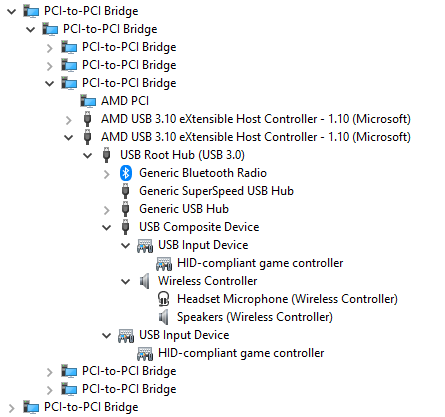
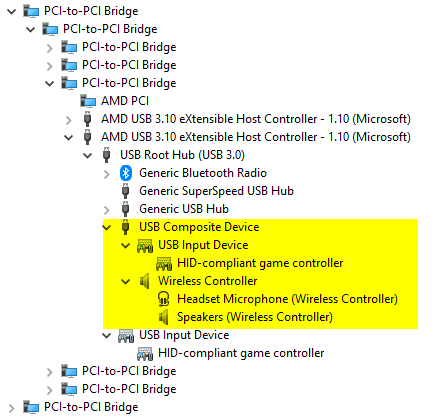
Updated example

Changed region(s): [[0.2337, 0.4988, 0.964, 0.8106]]

diff --git a/docs/projects/Identinator/index.md b/docs/projects/Identinator/index.md
@@ -4,20 +4,27 @@
 
 TBD
 
-## Examples
+## Usage Example
 
-### Before
+Let's take the **Sony DualShock 4 Rev2** for example; by default it is represented by a composite device. This branches off into two child devices: the "USB Input Device" which represents the HID interface which in turn gets presented as "HID-compliant game controller" and a multimedia device (named "Wireless Controller") which in turn exposes a microphone and speaker device:
 
 ![Before](images/mmc_ME74WR3tG2.png){: .glightbox }
+
+Examining the "USB Input Device" we can look at the default Hardware and Compatible IDs which get built by the Windows driver stack based on information extracted from the USB Device Descriptor:
 
 ![Hardware IDs](images/mmc_hzP9mpgCmB.png){: .glightbox }
 
 ![Compatible IDs](images/mmc_VaF4BO0OnD.png){: .glightbox }
 
-### After
+After applying rewrite settings, the changes can be observed:
 
 ![Before](images/mmc_lb8TghMekj.png){: .glightbox }
+
+!!! note "The second Wireless Controller shown..."
+    ...is a Sony DualShock 4 **Rev1** that was also connected and rewritten, it is completely independent from the Rev2.
 
 ![Hardware IDs](images/mmc_JIqFmaIMoB.png){: .glightbox }
 
 ![Compatible IDs](images/mmc_9AOKamFJ91.png){: .glightbox }
+
+Due to the compatible IDs the stock WinUSB drivers got loaded, so the device can be directly accessed with whatever software the tinkerer sees fit.
